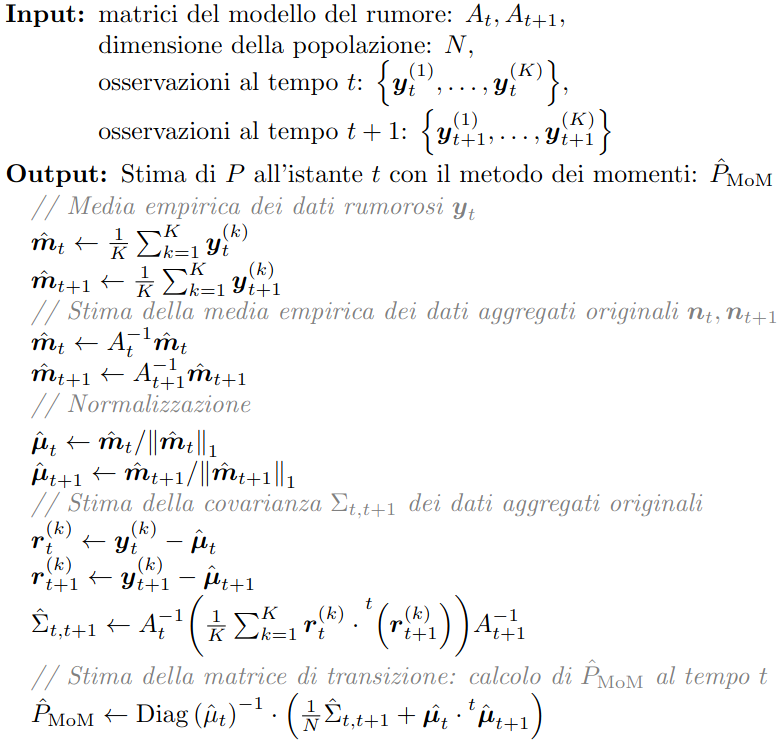
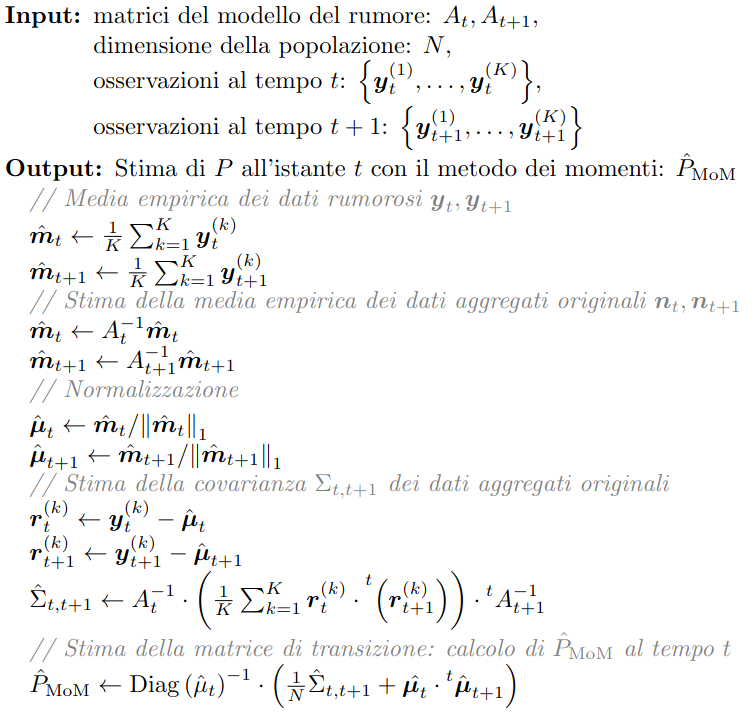
Update presentazione

Changed region(s): [[0.0, 0.0, 1.0, 1.0]]

diff --git a/Presentazione/Presentazione MNCM small.tex b/Presentazione/Presentazione MNCM small.tex
@@ -78,6 +78,7 @@
   \def\independenT#1#2{\mathrel{\rlap{$#1#2$}\mkern2mu{#1#2}}}
 
 
+\usetheme{Madrid}
 
 \title[Seminario MNCM]{Slide di appoggio}			%WIP
 %\subtitle{Presentazione e dimostrazione della convergenza} 
@@ -130,12 +131,104 @@
 \section{Analisi teorica}
 
     \begin{frame}
-        {}
+        {\hypertarget{frame:teorema_1_part1}{$\hat{P}_{\textup{MoM}}$ è consistente$\qquad 1/2$}}
 
-        %Supponiamo che:
-        %\begin{enumerate}
-        %    \item $\pi_0=\pi$, ossia $\qty{x_t^{(m)}}_{t\in[T]}$ è \emph{fortemente} stazionario
-        %\end{enumerate}
+        Supponiamo che:
+        \begin{enumerate}
+            \item $\pi_0=\pi$, ossia $\qty{x_t^{(m)}}_{t\in[T]}$ è \emph{fortemente} stazionario
+            \item $\P{\vb*{y}}{\vb*{n}}$ rispetti le ipotesi della proposizione~\ref{prop:noise_model}
+            \item $N\in\mathbb{N}, A\in\R{S}{S}$ siano noti {\smaller (e costanti: forte stazionarietà $\implies A_t=A\quad\forall\,t\in[T]$)}
+        \end{enumerate}
+
+        \begin{teorema}\label{teor:consistenza_P_mom}
+            Sia $\hat{P}_{T,K}$ lo stimatore restituito dall'algoritmo per il caso stazionario.
+
+            Nelle ipotesi precedenti, $\hat{P}_{T,K}$ è consistente%, ossia converge in probabilità 
+            %a $P$ per $T\to\infty$ e/o $K\to\infty$.
+        \end{teorema}
+        \begin{block}{Dimostrazione.}
+            \begin{itemize}
+                \item ${K\to\infty}$
+                \begin{itemize}
+                    \item Per la legge dei grandi numeri, $\lim_K\hat{\vb*{m}}_t=\mathbb{E}\qty[\vb*{y}_t]$ q.c.
+                    Dunque 
+                    $\lim_K\hat{\vb*{m}}=\lim_k\frac{1}{T}\sum_{t=1}^T\hat{\vb*{m}}_t=\mathbb{E}\qty[\vb*{y}_1]$ q.c.
+                    (cfr. Appendice~\hyperlink{frame:teorema1_lim_mhat:appencide}{\faHandPointRight})
+                    \item Similmente si dimostra che $\lim_K\hat{\Sigma}_{t,t+1}=\Cov{\vb*{y}_1,\vb*{y}_2}$ q.c.
+                    e dunque $\hat{\Sigma}=\frac{1}{T-1}\sum_{t=1}^{T-1}\hat{\Sigma}_{t,t+1}\overset{K\to\infty}{\longrightarrow}\Cov{\vb*{y}_1,\vb*{y}_2}$ q.c.
+                    (cfr. Appendice~\hyperlink{frame:teorema1_lim_Sigmahat:appendice}{\faHandPointRight})
+                \end{itemize}
+                Ma allora $\hat{P}_{T,K}\overset{K\to\infty}{\longrightarrow}P$ in probabilità.
+            \end{itemize}
+        \end{block}
     \end{frame}
+
+    \begin{frame}
+        {\hypertarget{frame:teorema_1_part2}{$\hat{P}_{\textup{MoM}}$ è consistente$\qquad 2/2$}}
+
+        \begin{block}{}
+            \begin{itemize}
+                \item $T\to\infty$
+                
+                Possiamo supporre $K=1$. Dunque $\hat{\vb*{m}}_t=\vb*{y}_t$ e $\hat{\vb*{m}}=\frac{1}{T}\sum_{t=1}^{T}\vb*{y}_t$
+            \end{itemize}
+        \end{block}
+
+    \end{frame}
+
+
+
+
+
+% ---------------------------------------------------------------------------------------
+% -------------------------------------- APPENDICE --------------------------------------
+% ---------------------------------------------------------------------------------------
+
+\section*{Appendice}
+	\begin{frame}
+		\begin{center}
+			\Huge{\textbf{Appendice}}
+		\end{center}
+	\end{frame}
+
+
+    \begin{frame}
+        {Consistenza di \texorpdfstring{$\hat{P}_{T,K}$}{P_T,K} per \texorpdfstring{$K\to\infty$}{K tendente a infinito}$\qquad 1/2$}
+        {\hypertarget{frame:teorema1_lim_mhat:appencide}{Dettagli sul calcolo di \texorpdfstring{$\lim_K\hat{\vb*{m}}$}{un limite}}}
+
+        \begin{block}{}
+            Nel calcolo di $\lim_K\hat{\vb*{m}}$ si fa uso dell'ipotesi di stazionarietà:
+            \begin{align*}
+                \lim_K\hat{\vb*{m}}&=\lim_K\frac{1}{T}\sum_{t=1}^T\hat{\vb*{m}}_t=\frac{1}{T}\sum_{t=1}\
+                \lim_K\hat{\vb*{m}}_t=\frac{1}{T}\sum_{t=1}^T\mathbb{E}\qty[\vb*{y}_t]\
+                =\frac{1}{T}\sum_{t=1}^T A_t\mathbb{E}\qty[\vb*{n}_t]\\
+            \intertext{Per ipotesi $A_t=A\quad\forall\,t\in[T]$. Dunque}
+                &=\frac{1}{T}\cdot A\cdot\sum_{t=1}^T\mathbb{E}\qty[\vb*{n}_t]=\frac{1}{T}\cdot A\cdot T\cdot\mathbb{E}\qty[\vb*{n}_1]=A\cdot\mathbb{E}\qty[\vb*{n}_1]=\mathbb{E}\qty[\vb*{y}_1]
+            %\intertext{Ma per stazionarietà $\mathbb{E}\qty[\vb*{n}_t]=\mathbb{E}\qty[\vb*{n}_1]\quad\forall\,t\in[T]$. Dunque}
+            \end{align*}
+            poiché per stazionarietà $\mathbb{E}\qty[\vb*{n}_t]=\mathbb{E}\qty[\vb*{n}_1]\quad\forall\,t\in[T]$.
+            
+        \end{block}
+
+        \blankfootnote{\textbf{Indietro:}~\hyperlink{frame:teorema_1_part1}{\faHandPointLeft}}
+    \end{frame}
+
+    \begin{frame}
+        {Consistenza di \texorpdfstring{$\hat{P}_{T,K}$}{P_T,K} per \texorpdfstring{$K\to\infty$}{K tendente a infinito}$\qquad 2/2$}
+        {\hypertarget{frame:teorema1_lim_Sigmahat:appendice}{Dettagli sul calcolo di \texorpdfstring{$\lim_k\hat{\Sigma}_{t,t+1}$}{un altro limite}}}
+
+        \begin{block}{}
+            Consideriamo 
+            \[
+                \hat{\Sigma}_{t,t+1}=\frac{1}{K}\sum_{k=1}^{K}\qty(\vb*{y}_t^{(k)}-\hat{\vb*{m}}_t)\cdot\transpose{\qty(\vb*{y}_{t+1}^{(k)}-\hat{\vb*{m}}_{t+1})}=\frac{1}{K}\sum_{k=1}^{K}\qty(\vb*{y}_t^{(k)}\cdot\transpose{\vb*{y}}_{t+1}^{(k)})-\hat{\vb*{m}}_t\cdot\transpose{\hat{\vb*{m}}_{t+1}}
+            \]
+            Per la legge dei grandi numeri \textcolor{red}{\textbf{FINIRE}}
+            
+        \end{block}
+
+        \blankfootnote{\textbf{Indietro:}~\hyperlink{frame:teorema_1_part1}{\faHandPointLeft}}
+    \end{frame}
+
+
 
 \end{document}

diff --git a/Presentazione/Presentazione MNCM.tex b/Presentazione/Presentazione MNCM.tex
@@ -411,18 +411,18 @@
             \item<2-> $\mathbf{\vb*{\mu}_t}:$ Dalla proposizione~\ref{prop:formule_momenti} {\smaller (e poiché $\vb*{\mu}_t$ è un vettore stocastico)} segue che $\vb*{\mu}_t=\frac{\vb*{m}_t}{\norm{\vb*{m}_t}_1}$. 
 			\onslide<3->{Dunque 
             \[
-                \hat{\vb*{\mu}}_t=\frac{\hat{\vb*{m}}_t}{\norm{\hat{\vb*{m}}_t}_1}.
+                \hat{\vb*{\mu}}_t=\frac{\hat{\vb*{m}}_t}{\norm{\hat{\vb*{m}}_t}_1}
             \]}
-            \onslide<4->{$\hat{\vb*{m}}_t\coloneqq\frac{1}{K}\sum_{k=1}^K\vb*{y}_t^{(k)}$ è 
+            \onslide<4->{dove $\hat{\vb*{m}}_t\coloneqq\frac{1}{K}\sum_{k=1}^K\vb*{y}_t^{(k)}$ è 
 			il valore atteso empirico.}
             \item<5-> $\mathbf{\vb*{\mu}_{t,t+1}}:$ La proposizione~\ref{prop:formule_momenti} suggerisce
             \[
                 \hat{\vb*{\mu}}_{t,t+1}=\frac{1}{N}\hat{\Sigma}_{t,t+1}+\hat{\vb*{\mu}}_t\transpose{\hat{\vb*{\mu}}_{t+1}},
             \]
-            dove 
-            $\hat{\Sigma}_{t,t+1}\coloneqq\frac{1}{K}\sum_{k=1}^K\mathsmaller{ \qty(\vb*{y}_t^{(k)}-\hat{\vb*{\mu}}_t)\qty(\vb*{y}_{t+1}^{(k)}-\hat{\vb*{\mu}}_{t+1})}$ è la covarianza empirica.
+            \onslide<6->{dove 
+            $\hat{\Sigma}_{t,t+1}\coloneqq\frac{1}{K}\sum_{k=1}^K\mathsmaller{ \qty(\vb*{y}_t^{(k)}-\hat{\vb*{m}}_t)\cdot\transpose{\qty(\vb*{y}_{t+1}^{(k)}-\hat{\vb*{m}}_{t+1})}}$ è la covarianza empirica.}
         \end{itemize}
-        \onslide<6->{Otteniamo dunque $\hat{P}_{\textup{MoM}}\coloneqq\operatorname{Diag}\qty(\hat{\vb*{\mu}}_t)^{-1}\qty(N^{-1}\hat{\Sigma}_{t,t+1}+\hat{\vb*{\mu}}_t\transpose{\hat{\vb*{\mu}}_{t+1}})$}
+        \onslide<7->{Otteniamo dunque $\hat{P}_{\textup{MoM}}\coloneqq\operatorname{Diag}\qty(\hat{\vb*{\mu}}_t)^{-1}\qty(N^{-1}\hat{\Sigma}_{t,t+1}+\hat{\vb*{\mu}}_t\transpose{\hat{\vb*{\mu}}_{t+1}})$}
 	\end{frame}
 
 	\begin{frame}
@@ -432,24 +432,24 @@
 
 		%Perché...
 		
-		La proposizione~\ref{prop:noise_model} delinea un'ampia classe di modelli 
-		di rumore che permettono di fare ciò:
-		\begin{proposizione}\label{prop:noise_model}
+		\onslide<2->{La proposizione~\ref{prop:noise_model} delinea un'ampia classe di modelli 
+		di rumore che permettono di fare ciò:}
+		\begin{proposizione}<3->\label{prop:noise_model}
 			Supponiamo che il modello di rumore $\P{\vb*{y}}{\vb*{n}}$ soddisfi le seguenti
 			due condizioni:
 			\begin{enumerate}
-				\item $\vb*{y}_t\independent\vb*{y}_s\qquad\forall\,t\ne s\in[T]\quad$ {\smaller (rumore indipendente)}
-				\item $\mathbb{E}\qty[\vb*{y}_t\mid\vb*{n}_t]=A_t\vb*{n}_t,\quad$ dove $A_t\in\R{S}{S}$ è una 
+				\item<3-> $\vb*{y}_t\independent\vb*{y}_s\qquad\forall\,t\ne s\in[T]\quad$ {\smaller (rumore indipendente)}
+				\item<4-> $\mathbb{E}\qty[\vb*{y}_t\mid\vb*{n}_t]=A_t\vb*{n}_t,\quad$ dove $A_t\in\R{S}{S}$ è una 
 				matrice \emph{invertibile} nota.
 			\end{enumerate}
-			Allora valgono le seguenti relazioni:
+			\onslide<5->{Allora valgono le seguenti relazioni:}
 			\begin{enumerate}
-				\item $\mathbb{E}\qty[\vb*{n}_t]=A_t^{-1}\cdot\mathbb{E}\qty[\vb*{y}_t]\qquad\forall\,t\in[T]$
-				\item $\mathbb{E}\qty[\vb*{n}_s\transpose{\vb*{n}_t}]=A_s^{-1}\cdot\mathbb{E}\qty[\vb*{y}_s\transpose{\vb*{y}_t}]\cdot\transpose{A_t^{-1}}\qquad\forall\,s\ne t\in[T]$
-				\item $\Cov{\vb*{n}_s,\vb*{n}_t}=A_s^{-1}\cdot\Cov{\vb*{y}_s,\vb*{y}_t}\cdot\transpose{A_t^{-1}}\qquad\forall\,s\ne t\in[T]$
+				\item<6-> $\mathbb{E}\qty[\vb*{n}_t]=A_t^{-1}\cdot\mathbb{E}\qty[\vb*{y}_t]\qquad\forall\,t\in[T]$
+				\item<6-> $\mathbb{E}\qty[\vb*{n}_s\transpose{\vb*{n}_t}]=A_s^{-1}\cdot\mathbb{E}\qty[\vb*{y}_s\transpose{\vb*{y}_t}]\cdot\transpose{A_t^{-1}}\qquad\forall\,s\ne t\in[T]$
+				\item<6-> $\Cov{\vb*{n}_s,\vb*{n}_t}=A_s^{-1}\cdot\Cov{\vb*{y}_s,\vb*{y}_t}\cdot\transpose{A_t^{-1}}\qquad\forall\,s\ne t\in[T]$
 			\end{enumerate}
 		\end{proposizione}
-		\begin{proof}
+		\begin{proof}<7->
 			Cfr. Appendice~\hyperlink{frame:dim_prop_noise_model:appendice}{\faHandPointRight}
 		\end{proof}
 	\end{frame}
@@ -472,14 +472,28 @@
 
 	\begin{frame}[fragile]
 		{Algoritmo per il calcolo di $\hat{P}_{\textup{MoM}}$ {\smaller (caso stazionario)}}
+		Caso {\smaller (fortemente)} stazionario: $\pi_0=\pi$.
 
 		\begin{figure}[ht]
 			\centering
-			\includegraphics[width=0.65\textwidth]{Immagini/algorithm_nonstationary.png}
+			\includegraphics[width=0.65\textwidth]{Immagini/algorithm_stationary.png}
 			%\caption{\emph{Algoritmo per il calcolo di $\hat{P}_{\textup{MoM}}$}}
 		\end{figure}
 		
 	\end{frame}
+
+	\subsection{Dimostrazione della consistenza di \texorpdfstring{$\hat{P}_{\textup{MoM}}$}{P_mom}}
+
+	\begin{frame}
+        {}
+
+        Supponiamo che:
+        \begin{enumerate}
+            \item $\pi_0=\pi$, ossia $\qty{x_t^{(m)}}_{t\in[T]}$ è \emph{fortemente} stazionario
+            \item $\P{\vb*{y}}{\vb*{n}}$ rispetti le ipotesi della proposizione~\ref{prop:noise_model}
+            \item $N\in\mathbb{N}, A\in\R{S}{S}$ siano noti {\smaller (e costanti: forte stazionarietà $\implies A_t=A\quad\forall\,t\in[T]$)}
+        \end{enumerate}
+    \end{frame}
 
 
 
@@ -510,7 +524,7 @@
 		\end{thebibliography}
 	\end{frame}
 
-
+% ----------------------------------APPENDICE----------------------------------
 
 \section*{Appendice}
 	\begin{frame}
